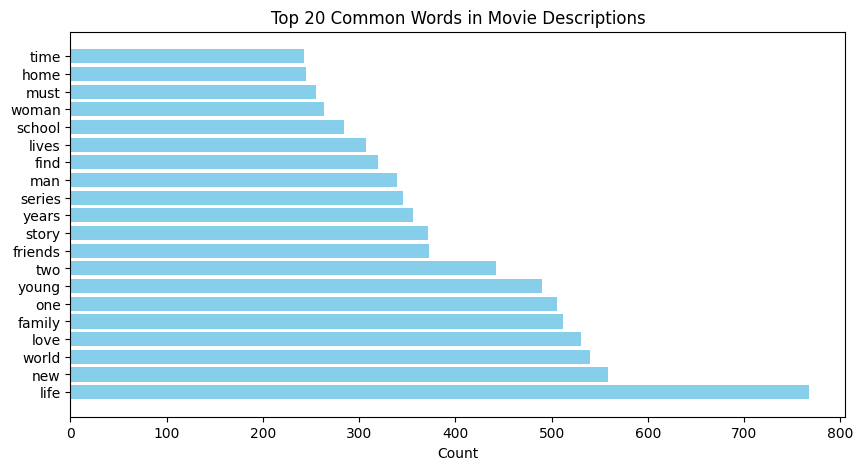
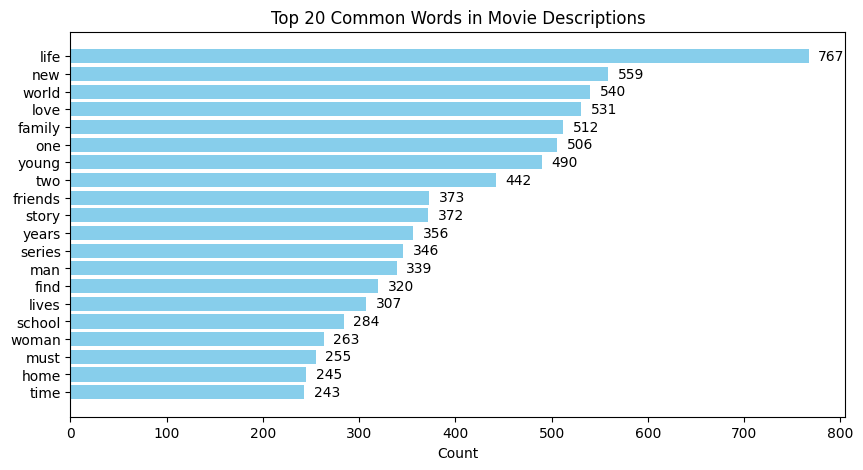
精修

Changed region(s): [[0.3314, 0.0894, 0.9641, 0.8638], [0.0, 0.0894, 0.0904, 0.8638]]

diff --git a/COMP20008A2.py b/COMP20008A2.py
@@ -15,6 +15,9 @@ import nltk
 import string
 from nltk.corpus import stopwords
 from wordcloud import WordCloud
+from sklearn.model_selection import cross_val_score
+
+# pre-processing--------------------------------------------------------------------------------------------------------
 
 # Load the datasets
 credit = pd.read_csv('credits.csv', encoding='ISO-8859-1')
@@ -34,11 +37,12 @@ titles.to_csv('titles.csv', index=False)
 credit.drop_duplicates(inplace=True)
 titles.drop_duplicates(inplace=True)
 
-# Uncomment below lines to print the information of each dataframe if needed
+
+# Check dataframe
 # print(credit.info())
 # print(titles.info())
 
-# regression------------------------------------------------------------------------------------------------------------
+# Machine learning------------------------------------------------------------------------------------------------------
 
 
 # Define the features and the target variable for our model
@@ -59,8 +63,8 @@ numeric_transformer = SimpleImputer(strategy='median')  # Impute missing values 
 # Define categorical features and the corresponding transformer
 categorical_features = ['genres', 'production_countries']
 categorical_transformer = Pipeline(steps=[
-    ('impute', SimpleImputer(strategy='constant', fill_value='missing')),  # Impute missing values with 'missing' label
-    ('onehot', OneHotEncoder(handle_unknown='ignore'))  # Apply one-hot encoding to categorical features
+    ('impute', SimpleImputer(strategy='constant', fill_value='missing')),
+    ('onehot', OneHotEncoder(handle_unknown='ignore'))
 ])
 
 # Create a column transformer that applies the above transformations to the respective columns
@@ -81,11 +85,25 @@ model.fit(X_train, Y_train)
 predictions = model.predict(X_test)
 
 # Calculate and print the mean squared error of the predictions
-mse = mean_squared_error(Y_test, predictions)
-print(f'Mean Squared Error: {mse}')
+mse1 = mean_squared_error(Y_test, predictions)
+print(f'Mean Squared Error: {mse1}')
 
 # By examining MSE, this model is not ideal, which may be because people's taste for movies
 # has changed with the change of times
+
+
+
+# 使用已定义的预处理器和模型
+pipeline = Pipeline(steps=[('preprocessor', preprocessor),
+                           ('regressor', LinearRegression())])
+
+# 进行5-折交叉验证
+scores = cross_val_score(pipeline, X, Y, cv=5, scoring='neg_mean_squared_error')
+
+# 交叉验证返回的是负的MSE值，因为评分函数默认是越大越好。所以我们取负号来获得实际的MSE。
+mse_scores = -scores
+mse2 = np.mean(mse_scores)
+print(f'Mean Squared Error: {mse2}')
 
 
 # pie chart and line chart about genre and years------------------------------------------------------------------------
@@ -103,14 +121,14 @@ genre_counts = p_exploded.value_counts()
 total = genre_counts.sum()
 
 # Set a threshold for minimum count required for a genre to be displayed separately in the pie chart
-threshold = 0.02 * total
+minimum = 0.02 * total
 
 # Group genres with counts below the threshold into an "Other" category
-genre_counts_adjusted = genre_counts[genre_counts >= threshold]
-other_count = genre_counts[genre_counts < threshold].sum()
+genre_counts_adjusted = genre_counts[genre_counts >= minimum]
+others = genre_counts[genre_counts < minimum].sum()
 
-if other_count > 0:
-    genre_counts_adjusted['Other'] = other_count
+if others > 0:
+    genre_counts_adjusted['Other'] = others
 
 # Define custom colors for the pie chart
 colors = ['#ff9999', '#66b3ff', '#99ff99', '#ffcc99', '#c2c2f0', '#ffb3e6', '#99e6e6', '#ffdb4d']
@@ -144,11 +162,11 @@ genre_counts_over_time = df_exploded.groupby(['year_group', 'genres']).size().un
 plt.figure(figsize=(10, 6))
 genre_counts_over_time.plot(kind='line', ax=plt.gca())
 plt.title('Genre Distribution Over Time')
-plt.xlabel('Decade')  # Set x-axis label
-plt.ylabel('Number of Movies')  # Set y-axis label
-plt.legend(loc='center left', bbox_to_anchor=(1.0, 0.5))  # Place the legend outside the plot
+plt.xlabel('Decade')
+plt.ylabel('Number of Movies')
+plt.legend(loc='center left', bbox_to_anchor=(1.0, 0.5))
 plt.savefig('PNG/Genre Distribution Over Time.png', bbox_inches='tight')
-# Display the line chart
+
 plt.show()
 
 # Word frequency plot and word cloud plot-------------------------------------------------------------------------------
@@ -176,16 +194,25 @@ for desc in titles['description']:
     word_count.update(word for word in words if word not in stop_words)
 
 # Get the most common words
-top_n = 20
-common_words = word_count.most_common(top_n)
+wordcount = 20
+topwords = word_count.most_common(wordcount)
+
+# Reverse the list of common words to display in descending order
+topwords.reverse()
 
 # Plot the most common words as a horizontal bar chart
 plt.figure(figsize=(10, 5))
-plt.barh([word[0] for word in common_words], [word[1] for word in common_words], color='skyblue')
+plt.barh([word[0] for word in topwords], [word[1] for word in topwords], color='skyblue')
 plt.xlabel('Count')
-plt.title(f'Top {top_n} Common Words in Movie Descriptions')
+plt.title(f'Top {wordcount} Common Words in Movie Descriptions')
+
+# Annotate the bars with the word count
+for i, count in enumerate([word[1] for word in topwords]):
+    plt.text(count + 10, i, str(count), va='center', fontsize=10, color='black')
+
 plt.savefig('PNG/Common Words in Movie Descriptions.png', bbox_inches='tight')
 plt.show()
+
 
 # Generate a word cloud based on the word frequencies
 wordcloud = WordCloud(width=800, height=400, background_color='white',
